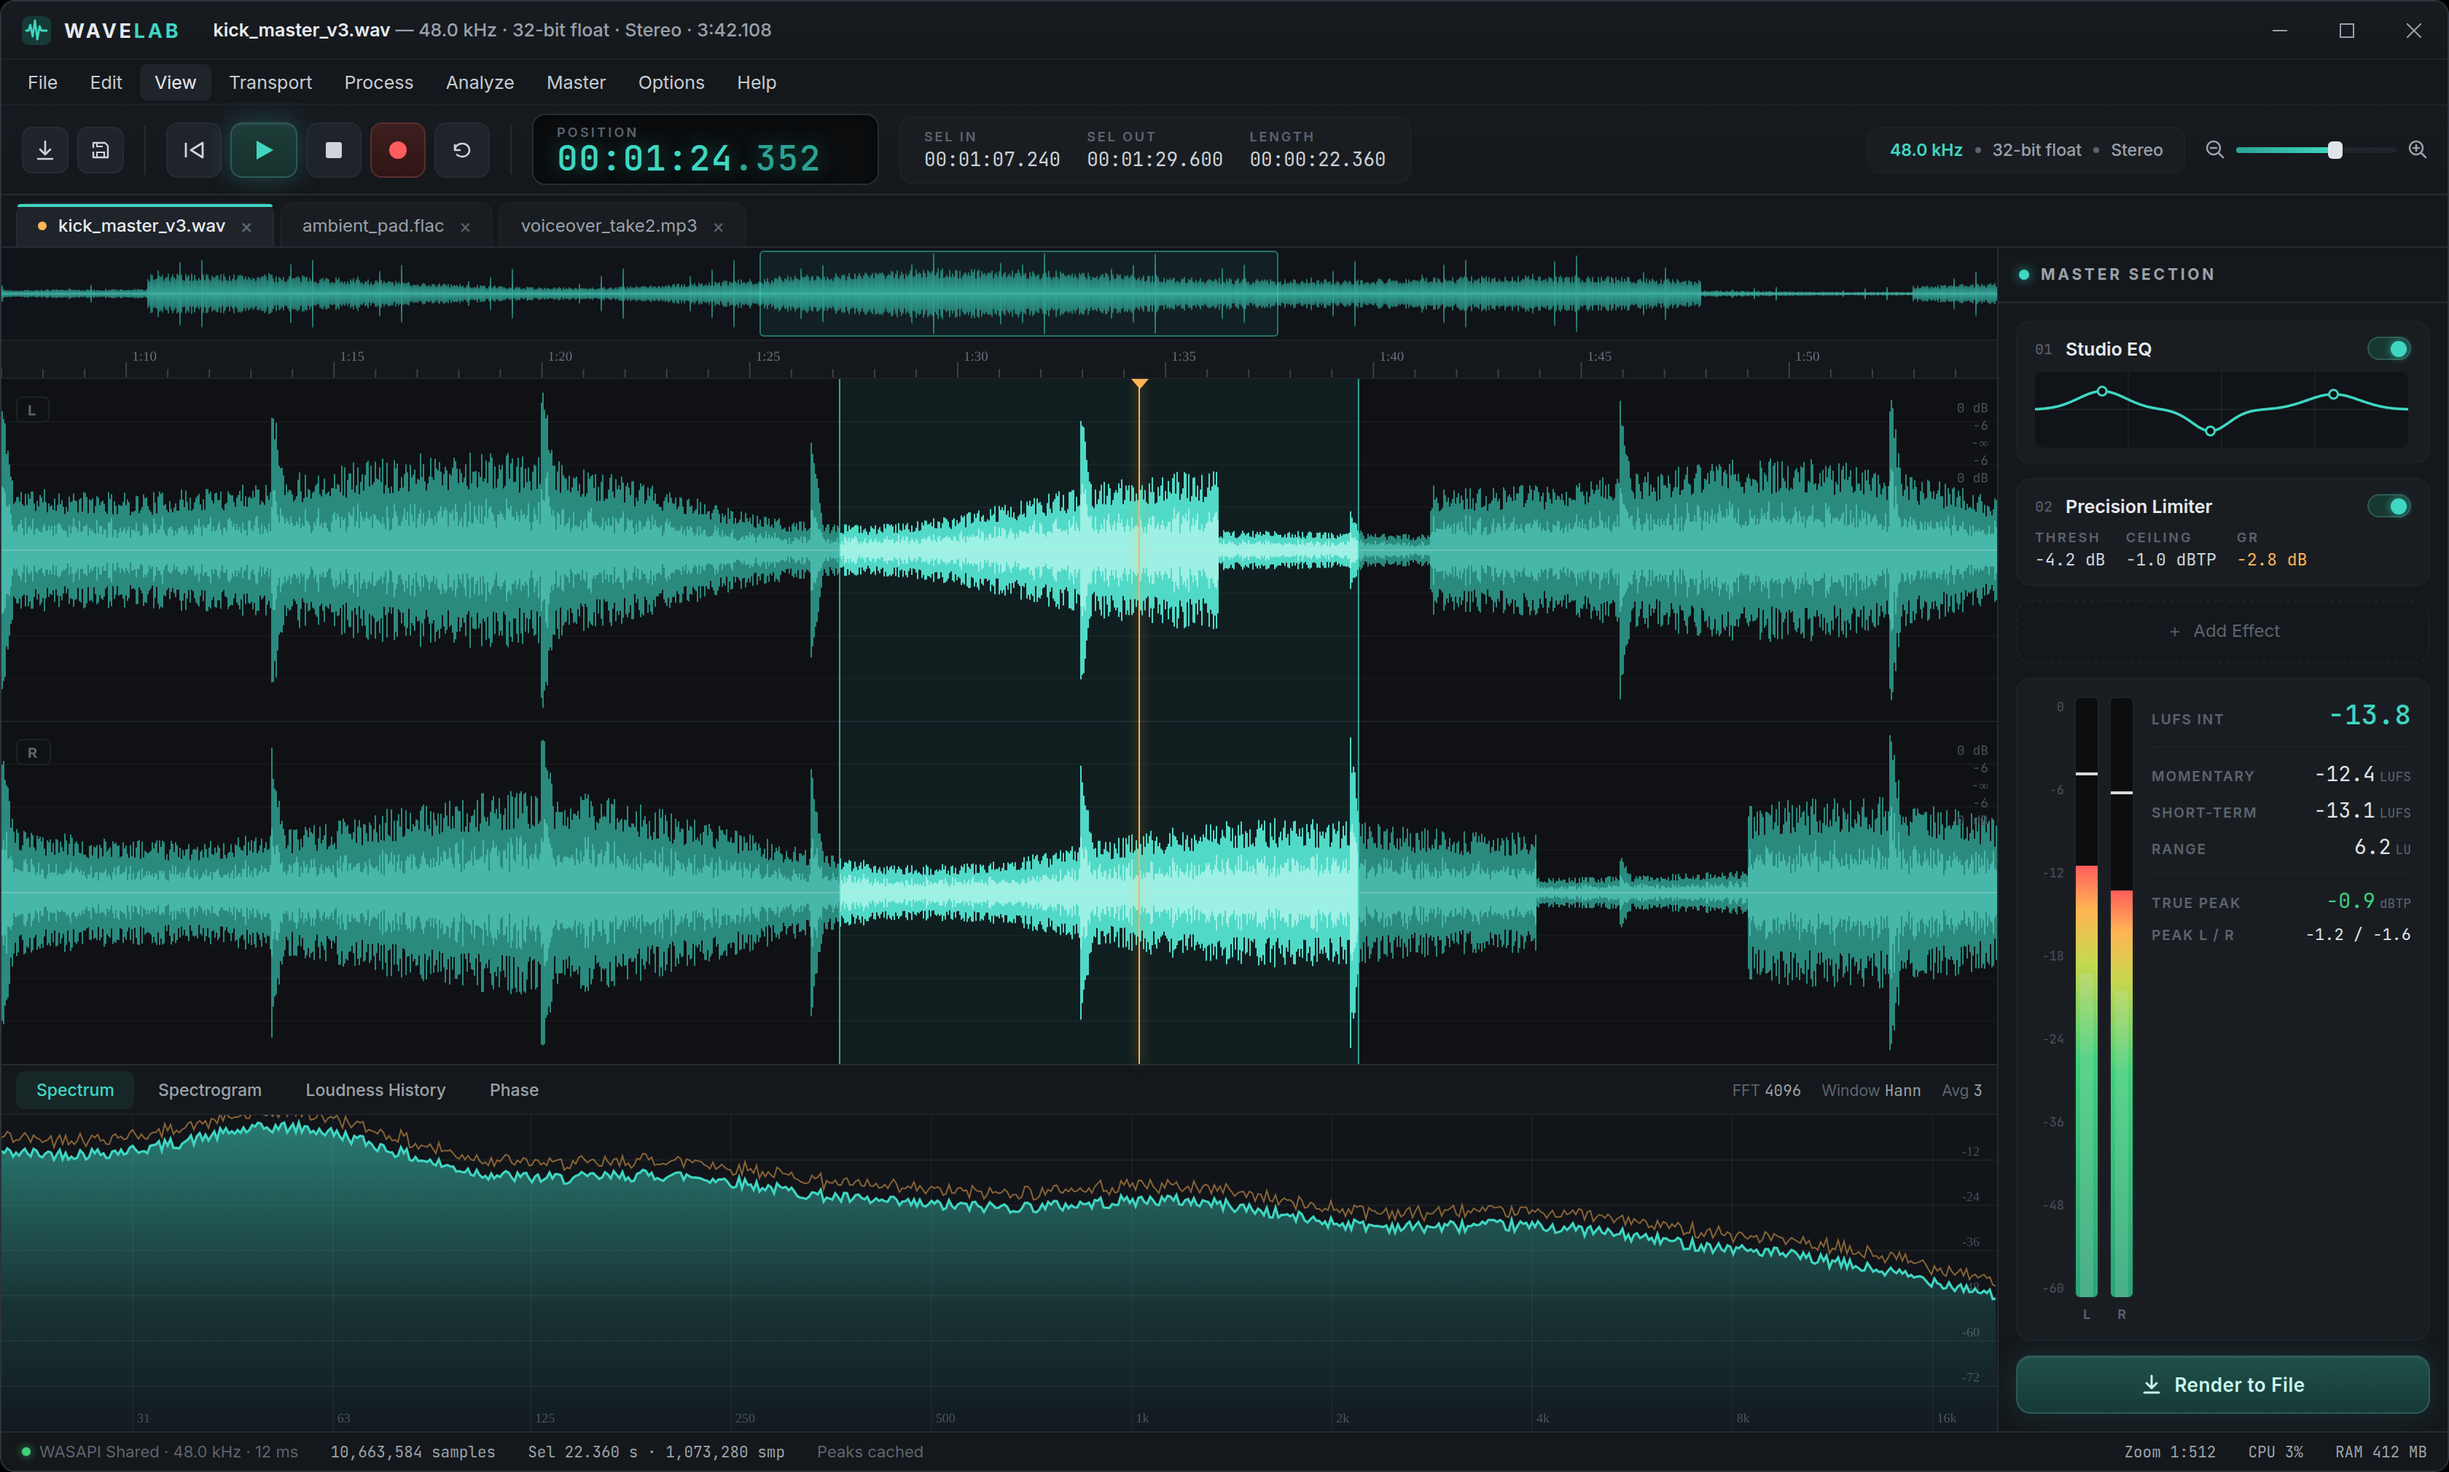
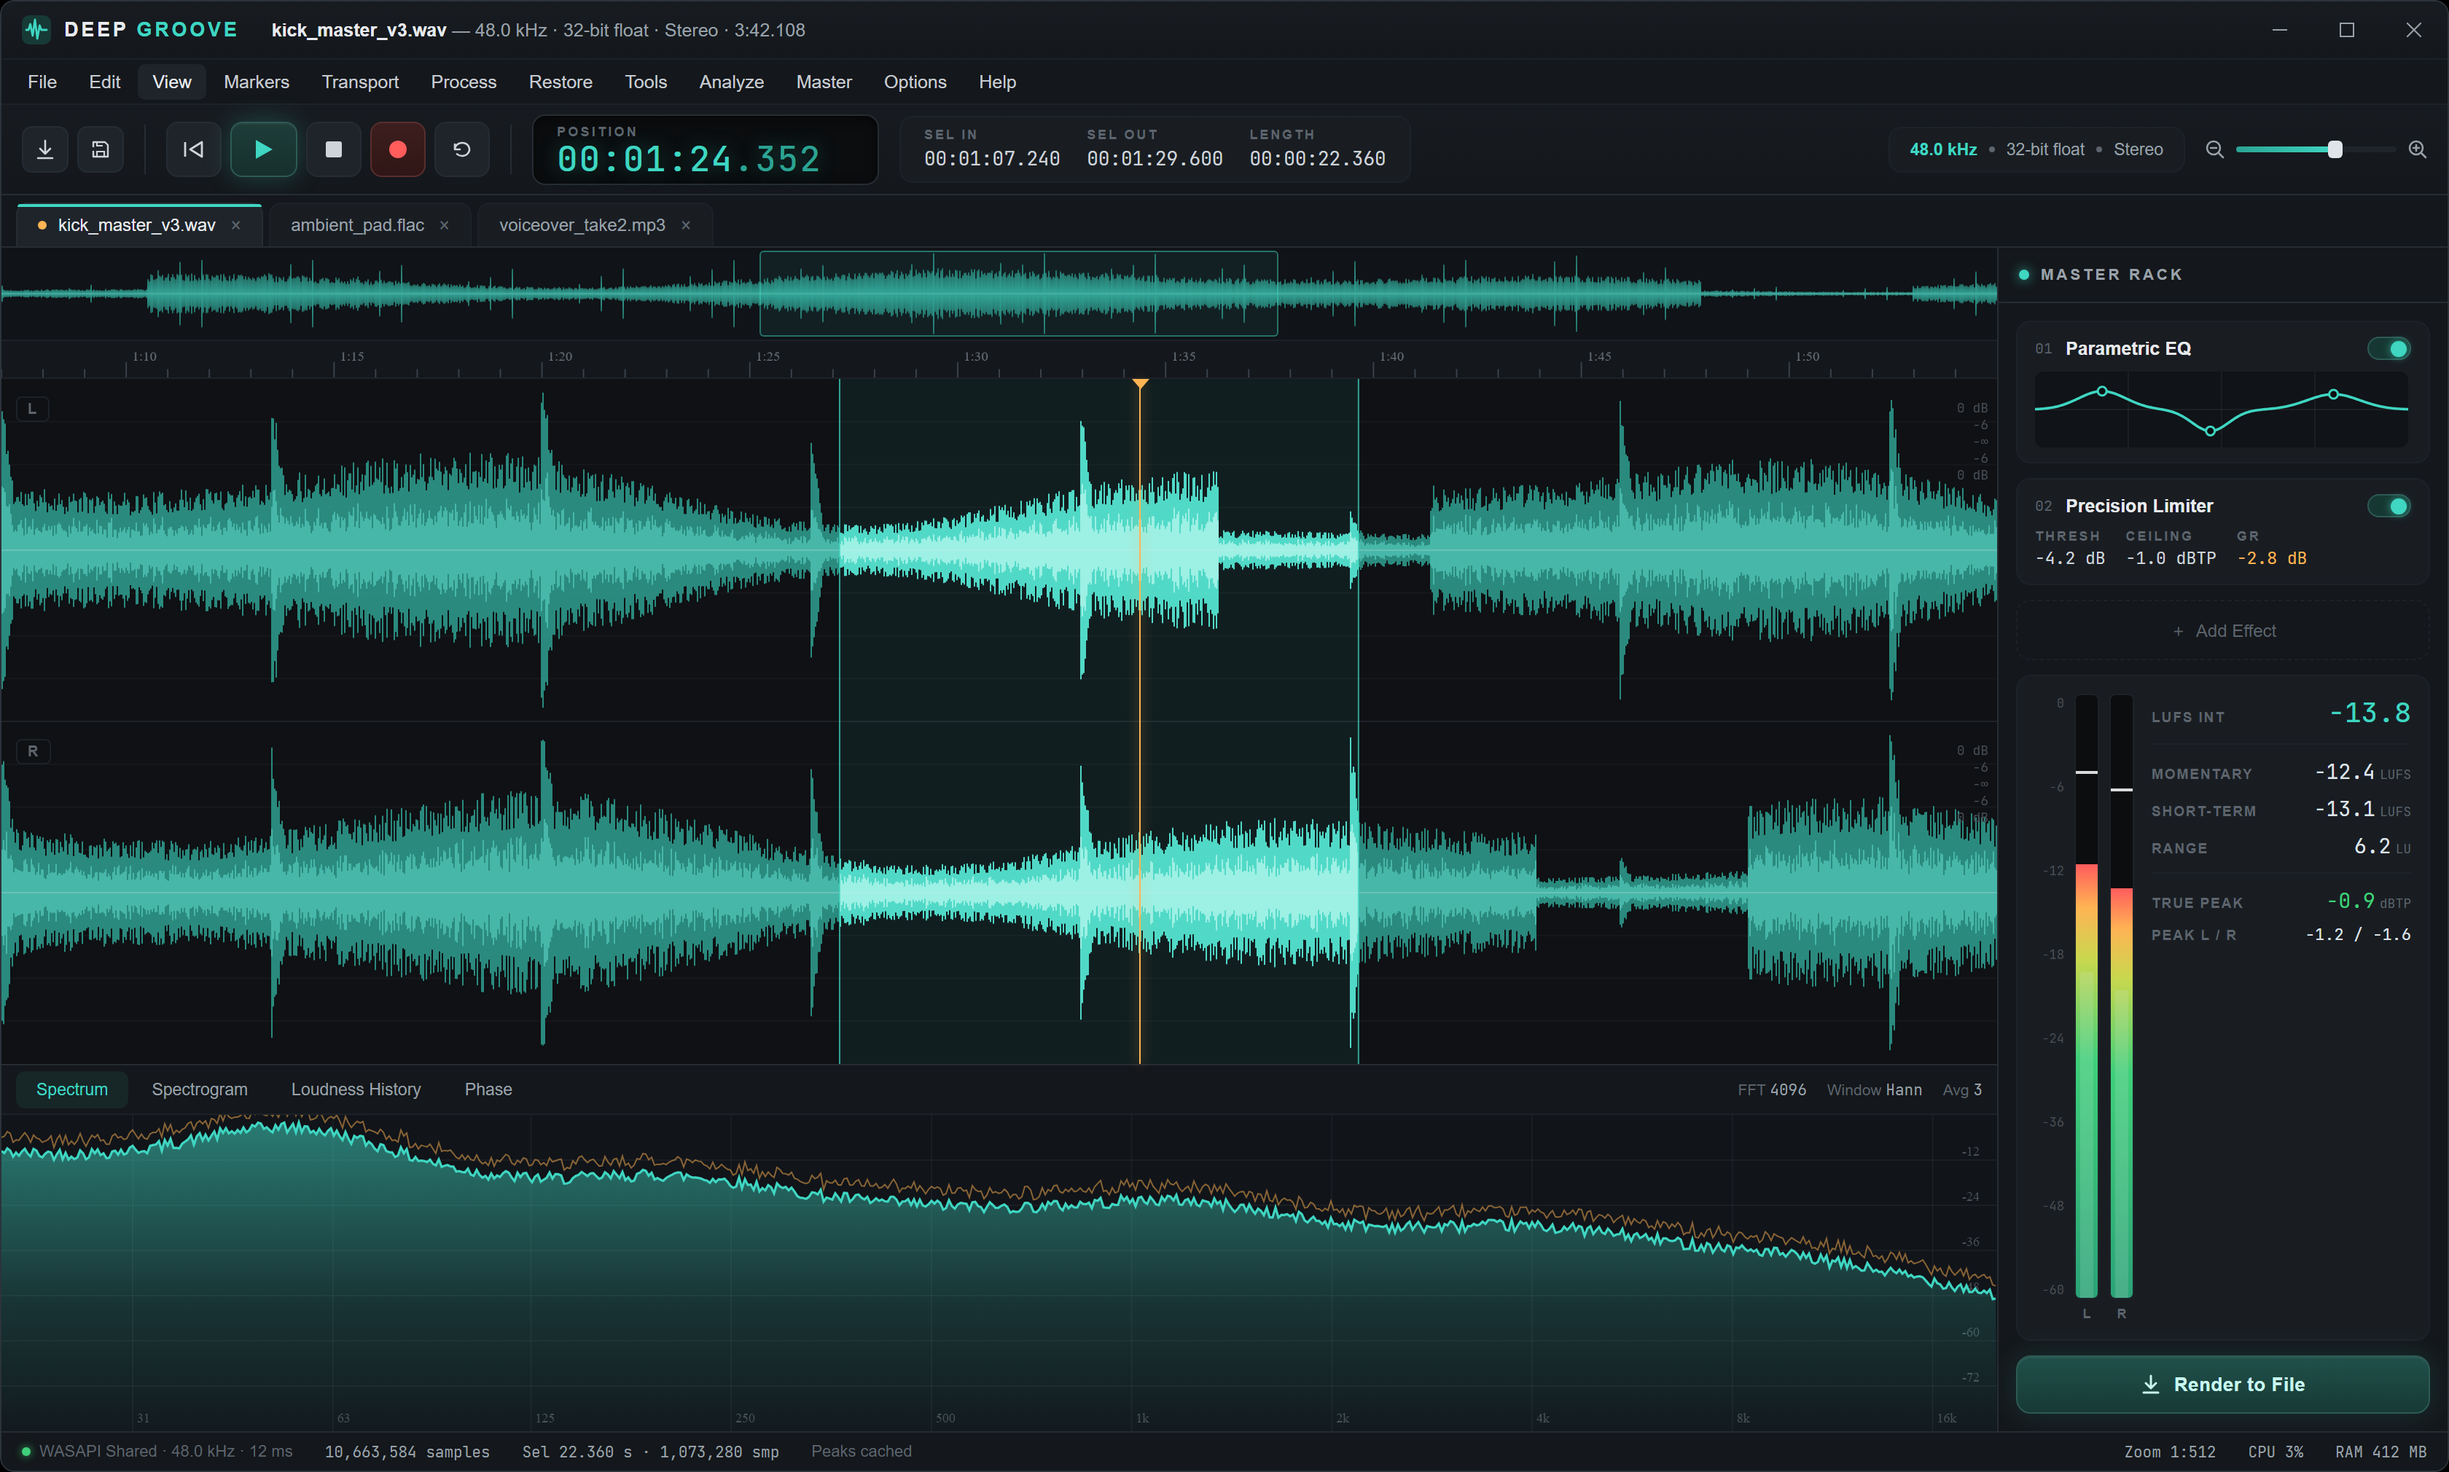
Put the app's own name on the README picture
The hero image still read WAVELAB across the title bar. The app has been
Deep Groove for a while, so the first thing anyone saw was the old name.

Re-rendered from docs/design/wavelab.html with the wordmark corrected, and
took the three other labels that had drifted from the running app while the
file was open: the menu bar was missing Markers, Restore and Tools, the rack
was headed MASTER SECTION where the app says MASTER RACK, and the first rack
card said Studio EQ where the effect registers itself as Parametric EQ.

Rendering the real MainWindow offscreen was tried as the alternative and is
the more honest picture in principle, but it makes a worse one here: nothing
is playing, so the meters and the spectrum are blank, and the expanded EQ
card fills the rack panel. It also pulled David's own transfers into the
frame through session restore, which is not something a README should
publish. The mockup stays, and now says the right name.

Claude-Session: https://claude.ai/code/session_01XkMhkY1DqitW5LGjNN8Wxi

diff --git a/docs/design/wavelab.html b/docs/design/wavelab.html
@@ -2,7 +2,7 @@
 <html lang="en">
 <head>
 <meta charset="UTF-8">
-<title>WaveLab — mockup</title>
+<title>Deep Groove — mockup</title>
 <style>
   @font-face { font-family:'Inter'; src:url('fonts/inter-latin-400-normal.woff2') format('woff2'); font-weight:400; }
   @font-face { font-family:'Inter'; src:url('fonts/inter-latin-500-normal.woff2') format('woff2'); font-weight:500; }
@@ -243,7 +243,7 @@
   <div class="titlebar">
     <div class="appmark">
       <svg width="20" height="20" viewBox="0 0 20 20"><rect width="20" height="20" rx="5" fill="#173a36"/><path d="M3 10h1.6l1.2-4 1.6 8 1.6-11 1.6 13 1.6-9 1.2 3H17" stroke="#3fd6c2" stroke-width="1.4" fill="none" stroke-linecap="round" stroke-linejoin="round"/></svg>
-      <div class="wordmark">WAVE<span>LAB</span></div>
+      <div class="wordmark">DEEP&nbsp;<span>GROOVE</span></div>
     </div>
     <div class="doc-title"><b>kick_master_v3.wav</b> — 48.0 kHz · 32-bit float · Stereo · 3:42.108</div>
     <div class="win-btns">
@@ -254,7 +254,7 @@
   </div>
 
   <div class="menubar">
-    <span>File</span><span>Edit</span><span class="hot">View</span><span>Transport</span><span>Process</span><span>Analyze</span><span>Master</span><span>Options</span><span>Help</span>
+    <span>File</span><span>Edit</span><span class="hot">View</span><span>Markers</span><span>Transport</span><span>Process</span><span>Restore</span><span>Tools</span><span>Analyze</span><span>Master</span><span>Options</span><span>Help</span>
   </div>
 
   <div class="transport">
@@ -322,10 +322,10 @@
     </div>
 
     <div class="master">
-      <div class="m-head"><div class="led"></div>MASTER SECTION</div>
+      <div class="m-head"><div class="led"></div>MASTER RACK</div>
       <div class="m-body">
         <div class="fxslot">
-          <div class="row"><div class="num">01</div><div class="name">Studio EQ</div><div class="st"><div class="toggle"></div></div></div>
+          <div class="row"><div class="num">01</div><div class="name">Parametric EQ</div><div class="st"><div class="toggle"></div></div></div>
           <canvas id="eq" width="256" height="52" style="width:256px;height:52px;"></canvas>
         </div>
         <div class="fxslot">
